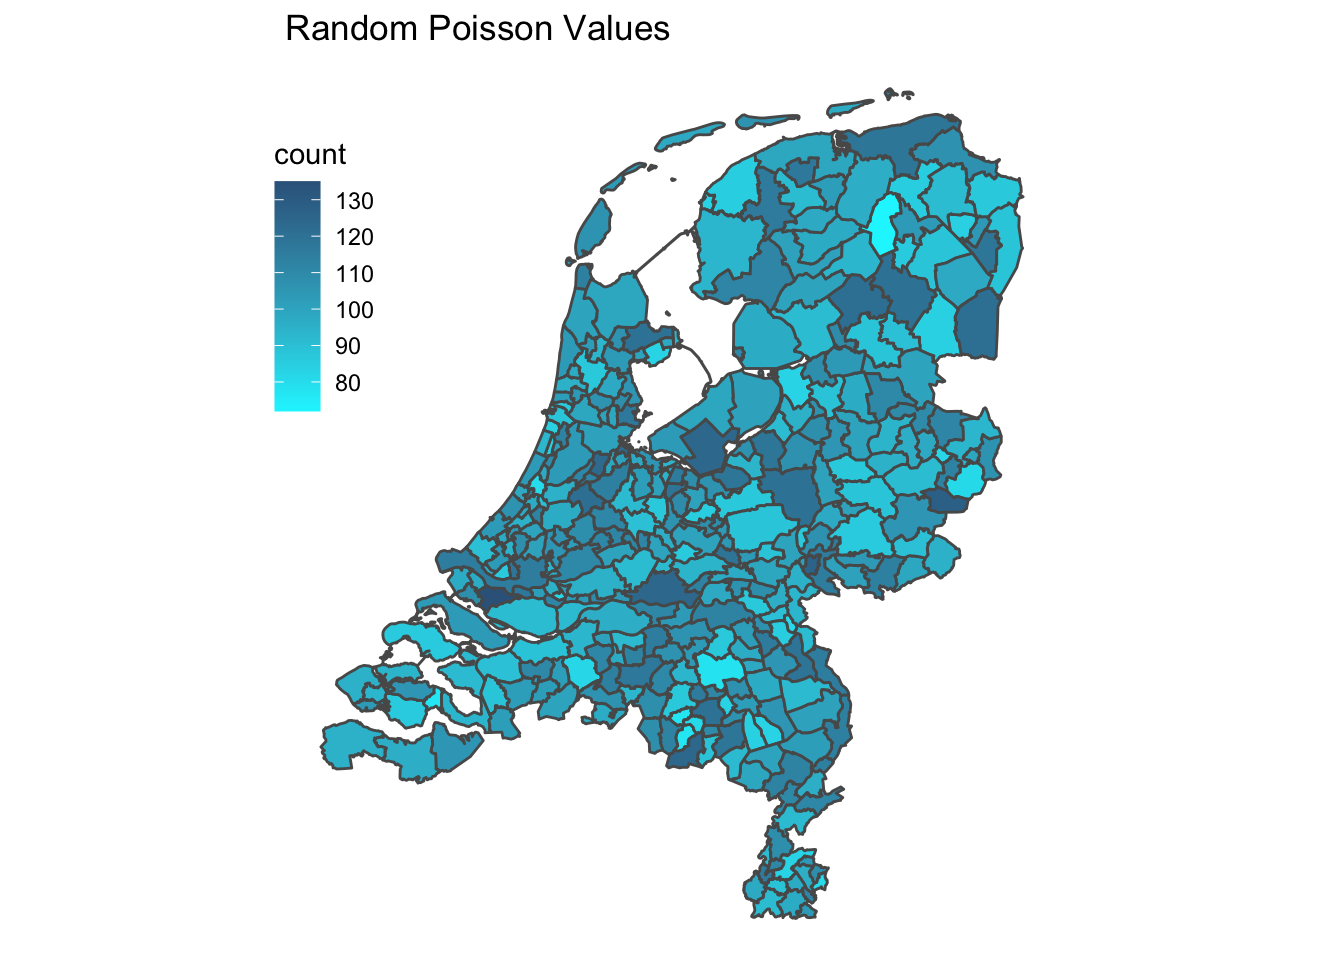
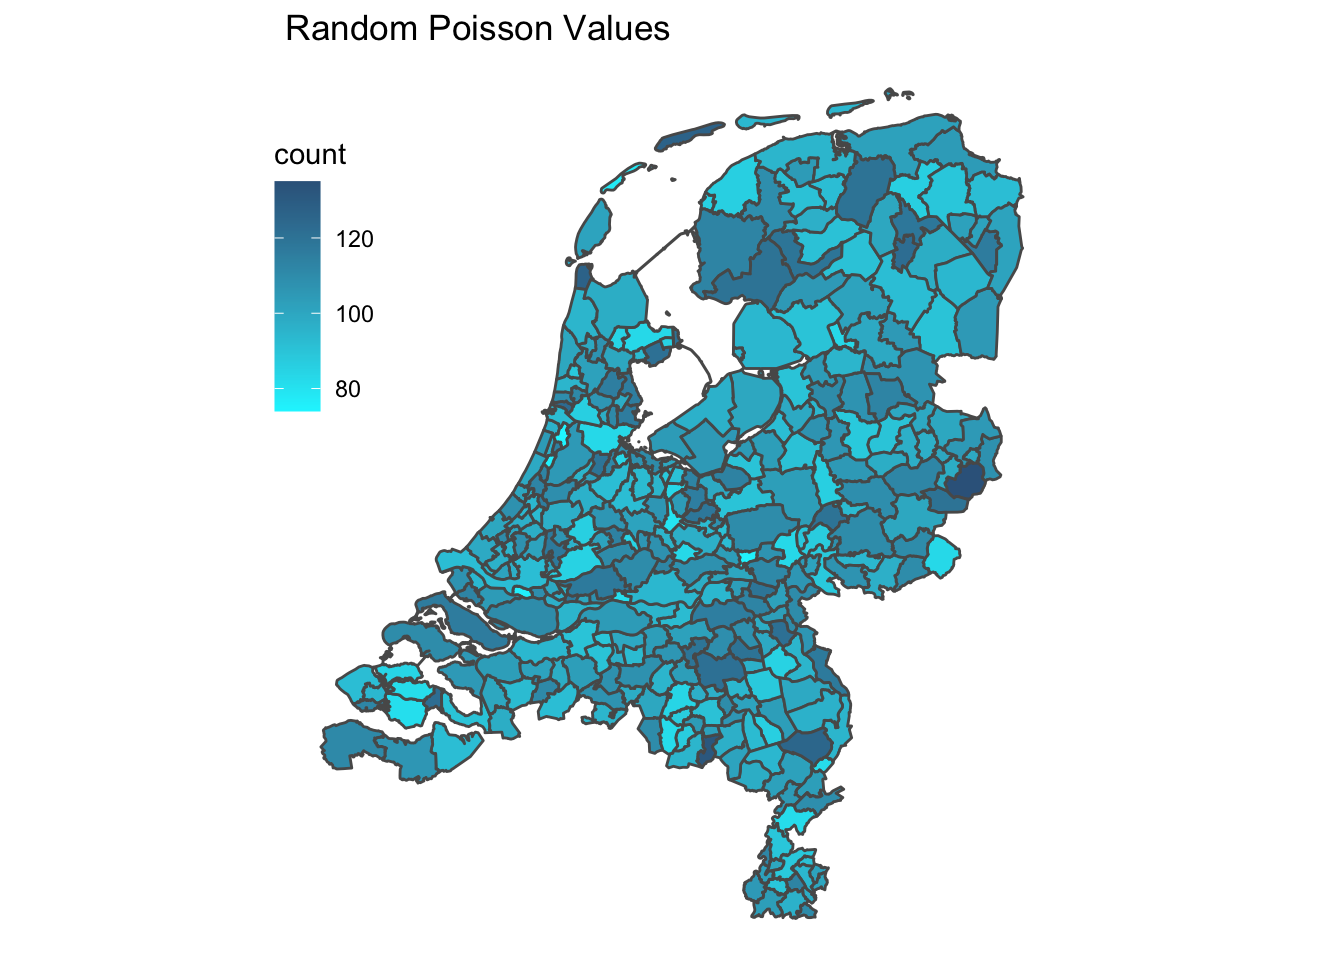
minor fixes

diff --git a/README.md b/README.md
@@ -13,19 +13,13 @@ devtools::install_github("TIvanDijk/TivD")
 ```
 
 To replicate the output of this markdown file, you’ll need at least the
-following
-    packages
+following packages
 
-    ## Warning: replacing previous import 'vctrs::data_frame' by 'tibble::data_frame'
-    ## when loading 'dplyr'
-    ## 
-    ## Attaching package: 'dplyr'
-    ## The following objects are masked from 'package:stats':
-    ## 
-    ##     filter, lag
-    ## The following objects are masked from 'package:base':
-    ## 
-    ##     intersect, setdiff, setequal, union
+``` r
+library(dplyr)
+library(TivD)
+library(ggplot2)
+```
 
 # Maps
 
@@ -38,12 +32,12 @@ library(TivD)
 df = cbind(GPdata[, c('gem', 'prov')], count = rpois(352, 100))
 head(df)
 ##           gem      prov count
-## 1   Eemsdelta Groningen   107
-## 2   Groningen Groningen    85
-## 3      Almere Flevoland   103
-## 4 Stadskanaal Groningen   118
-## 5     Veendam Groningen    84
-## 6    Zeewolde Flevoland   124
+## 1   Eemsdelta Groningen   104
+## 2   Groningen Groningen    86
+## 3      Almere Flevoland   104
+## 4 Stadskanaal Groningen   116
+## 5     Veendam Groningen   102
+## 6    Zeewolde Flevoland   105
 ```
 
 To plot the counts per Dutch municipality, you can use the `NLDgem`
